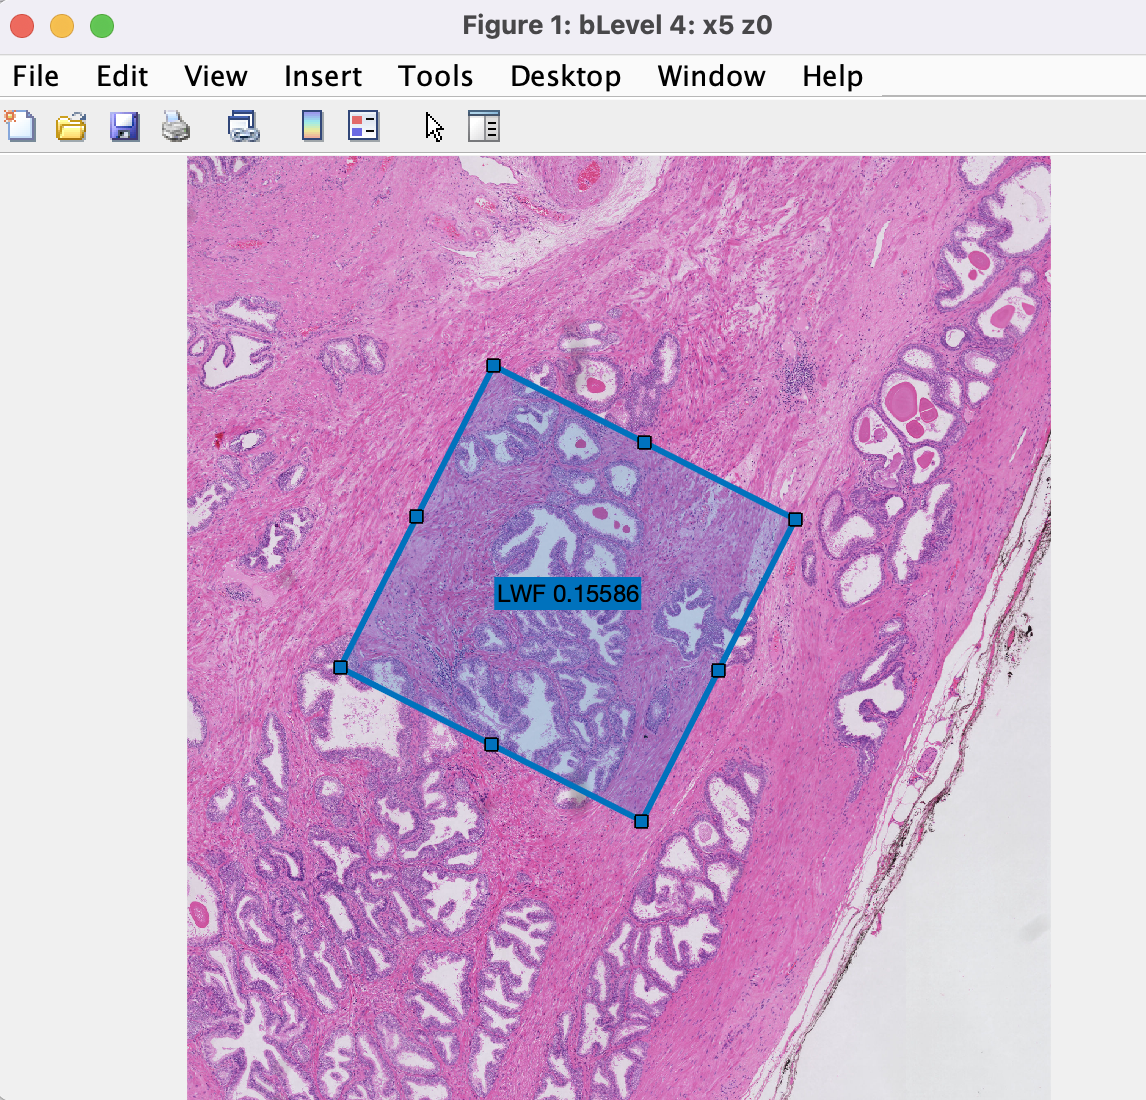
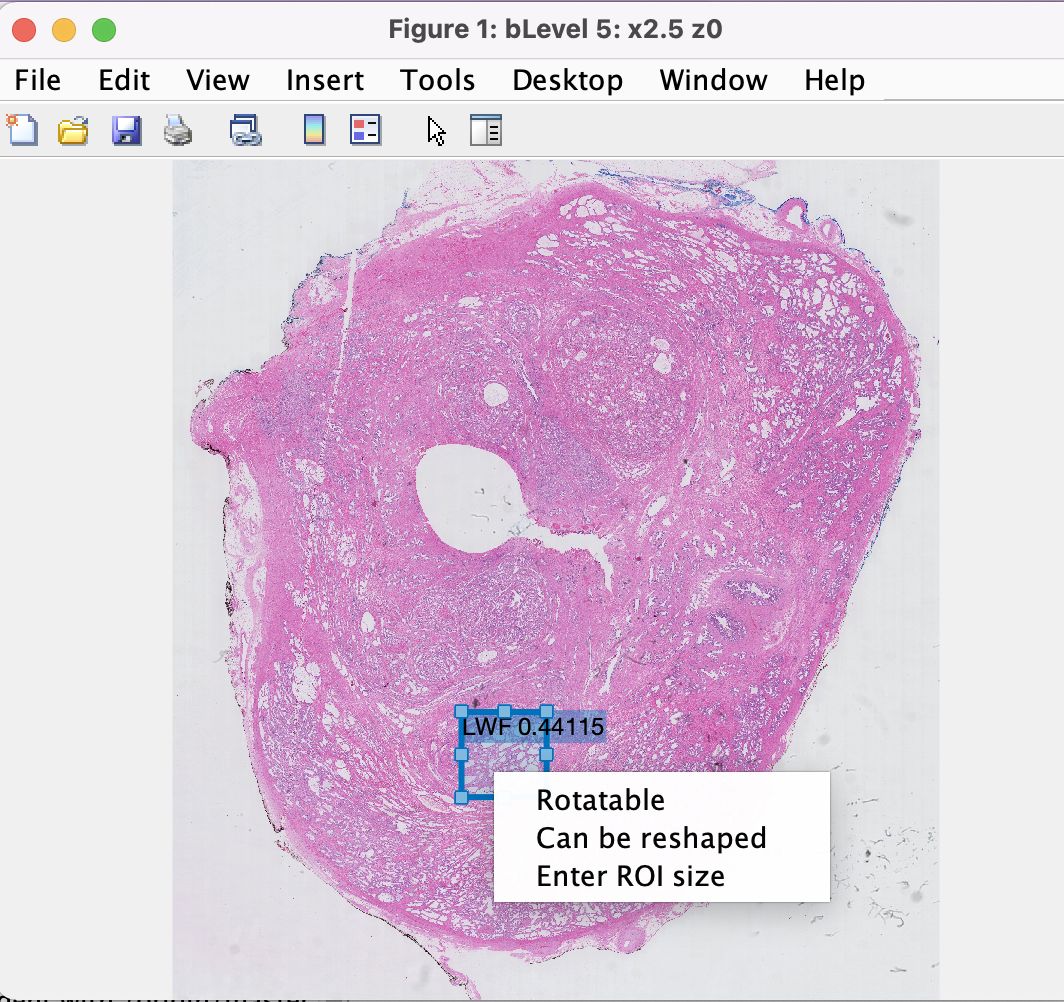
Added ROI context menu, updated figure

diff --git a/source/histoCM.m b/source/histoCM.m
@@ -1,39 +1,16 @@
 function cmHandle = histoCM
-% histoCM Image Context Menu for histology image
-% Apply to image handles in a TiledChartLayout created using tiledlayout
-% with 'flow'. Can be used for nontiled image with reduced functionality.
+% histoCM Context Menu for ROI on a histology image
+% 
+% User can select if ROI is rotatable, can be resized, and the
+% corresponding size in mm.
 %
-%  cmHandle = tiledimCM
-%
-% Note that imcontrast does not allow an upper value above the data max so
-% it may re-window when opening
-%
-% Example Usage:
-% When tiling from consecutive DICOM frames, use columnmajor
-% tl = tilelayout('flow', 'TileIndexing','columnmajor') ;
-% nexttile
-% h_im = imshow( ... )
-% h_im.ContextMenu = tiledimCM ;
-%
-%
-% To asign to a non-tiled layout:
-%  h = findobj(gcf,'Type','image') ;
-% [h.ContextMenu] = deal(tiledimCM) ;
+%  roi_handle.ContextMenu = histoCM ;
 %
 % Copyright 2022, David Atkinson
 %
 %  See also wsi_demo
 
-%
-% Example useful manipulations:
-%  hf = src.Parent.Parent ; % Figure
-%  clickedax = src.Parent.Parent.CurrentAxes ;  % The clicked axes
-%   h_im = clickedax.Children   % The image in the axes
-%  tl = clickedax.Parent ;  % The tiledlayout
-%  axs = tl.Children ;      % The axes in the Tiled Layout
-%
-% Note that the axes have a Layout.Tile property. This Tile number does not
-% change when axes are deleted (even thought the figure redraws)
+% Adatped from tiledimCM
  
 % Set menu entries
 cmHandle = uicontextmenu('ContextMenuOpeningFcn',@cmopening) ;
@@ -41,23 +18,17 @@ uimenu(cmHandle,'Label','Rotatable','Checked','off','Callback',@rotatable) ;
 uimenu(cmHandle,'Label','Can be reshaped','Checked','off','Callback',@reshape) 
 uimenu(cmHandle,'Label','Enter ROI size','Callback',@enterRoiSize) 
 
-% uimenu(cmHandle,'Label','Set level: [0 99th percentile]','Callback',@level099) ;
-% uimenu(cmHandle,'Label','Link axes','Checked','off', 'Callback',@linkax)
-% uimenu(cmHandle,'Label','Propagate window levels to all','Callback',@propw) ;
-% uimenu(cmHandle,'Label','Propagate window along row','Callback',@propwrow)
-% uimenu(cmHandle,'Label','Propagate window along column','Callback',@propwcol)
-% uimenu(cmHandle,'Label','Swap row/column major','Callback',@swapmajor)
 % % insert separator 
 % uimenu(cmHandle,'Separator','on','Label','Delete this tile (no undo)','Callback',@deleteTile) ;
-% uimenu(cmHandle,'Label','Delete row (no undo)','Callback',@deleteRow) ;
-% uimenu(cmHandle,'Label','Delete column (no undo)','Callback',@deleteCol) ;
+
 end
 
 
 % Callbacks
 
 function cmopening(src,~)
-clickedfig = src.Parent ;
+% Future - checks may be done here, e.g. for UserData. Below is from tiledimCM
+%clickedfig = src.Parent ;
 % htl = findobj(clickedfig,'Type','tiledlayout') ;
 % if isempty(htl)
 %     src.Children(1).Enable = 'off' ;
@@ -97,6 +68,7 @@ end
 end
 
 function enterRoiSize(src,~)
+% Input dialog box to enter roi size in mm
 hroi = findobj(src.Parent.Parent,'Type','images.roi.rectangle') ;
 pos = hroi.Position ;
 UD = hroi.UserData ;
@@ -117,138 +89,5 @@ end
 
 
 
-function linkax(src,~)
-hf = src.Parent.Parent ;
-axs = findobj(hf,'Type','axes') ;
-
-switch src.Checked
-    case 'on'
-        linkaxes(axs,'off')
-        src.Checked = 'off' ;
-    case 'off'
-        linkaxes(axs)
-        src.Checked = 'on' ;
-end
-end
-
-function level099(src,~)
-% LEVEL099 Set CLim from 0 to 99th percentile within the visible region
-clickedax = src.Parent.Parent.CurrentAxes ;
-XL = clickedax.XLim ; YL = clickedax.YLim ;
-
-xr = ceil(XL-0.5) ;
-yr = ceil(YL-0.5) ;
-
-cdata = clickedax.Children.CData ;
-
-clippedcdata = cdata(yr(1):yr(2),xr(1):xr(2)) ;
-
-upper = prctile(clippedcdata(:),99) ;
-
-clickedax.CLim = [0 upper] ;
-end
-
-function propw(src,~)
-% PROPW propagate window settings (CLim) to all tiles
-
-clickedax = src.Parent.Parent.CurrentAxes ;
-tl = clickedax.Parent ;
 
 
-axs = tl.Children ;
-
-cl = clickedax.CLim ;
-ccl{1} = cl ;
-scl = repmat(ccl,[1 length(axs)]) ;
-
-[axs.CLim] = deal(scl{:}) ;
-end
-
-function propwrow(src,~)
-% PROPWROW Propagate window level along just a row
-[raxs,~] = click2rowcolax(src) ;
-setrowcol(src,raxs)
-end
-
-function propwcol(src,~)
-% PROPWROW Propagate window level along just a column
-[~,caxs] = click2rowcolax(src) ;
-setrowcol(src,caxs)
-end
-
-function setrowcol(src, axs)
-clickedax = src.Parent.Parent.CurrentAxes ;
-cl = clickedax.CLim ;
-ccl{1} = cl ;
-scl = repmat(ccl,[1 length(axs)]) ;
-[axs.CLim] = deal(scl{:}) ;
-end
-
-function [raxs, caxs] = click2rowcolax(src)
-% CLICK2ROWCOLAX  Return axes handles for the clicked row and column
-clickedax = src.Parent.Parent.CurrentAxes ; 
-tilen = clickedax.Layout.Tile ;
-tl = clickedax.Parent ;
-
-[crow, ccol] = tile2rowcol(tilen, tl) ; % clicked row and column
-
-raxs = [] ; caxs = [] ;
-
-% loop through tiles and store axes 
-for itile = 1:length(tl.Children)
-    [trow, tcol] = tile2rowcol(tl.Children(itile).Layout.Tile, tl) ;
-    if trow==crow
-        hdax = tl.Children(itile) ;
-        raxs = [raxs hdax] ;
-    end
-    if tcol==ccol
-        hdax = tl.Children(itile) ;
-        caxs = [caxs hdax] ;
-    end
-end
-end
-
-function launchImcontrast(src,~)
-imcontrast(src.Parent.Parent.CurrentAxes)
-end
-
-function deleteRow(src,~)
-[raxs, ~] = click2rowcolax(src) ;
-delete(raxs)
-end
-
-function deleteCol(src,~)
-[~, caxs] = click2rowcolax(src) ;
-delete(caxs)
-end
-
-
-
-function [trow, tcol] = tile2rowcol(itile, tl)
-% TILE2ROWCOL Return row and column of tile number (from axes Layout Tile)
-gs = tl.GridSize ; % [nrow ncol]
-axs = tl.Children ;
-for iax = 1 : length(axs)
-    tn(iax) = axs(iax).Layout.Tile ;  % tile numbers in current figure 
-end
-tn_sorted = sort(tn) ; % numbers may not be sequential in axes due to deletions
-sqtile = find(tn_sorted==itile) ; % sequential number
-switch tl.TileIndexing
-    case 'columnmajor'
-        tcol = ceil(sqtile/gs(1)) ;  
-        trow = sqtile - ((tcol-1)*gs(1)) ;
-    case 'rowmajor'
-        trow = ceil(sqtile/gs(2)) ;
-        tcol = sqtile - ((trow-1)*gs(2)) ;
-    otherwise
-        error('Only columnmajor and rowmajor implemented')
-end
-end
-
-
-function deleteTile(src,~)
-% DELETETILE  Delete the selected tile
-% This does not change the Tile number in the axes Layout property
-clickedax = src.Parent.Parent.CurrentAxes ;
-delete(clickedax)
-end
